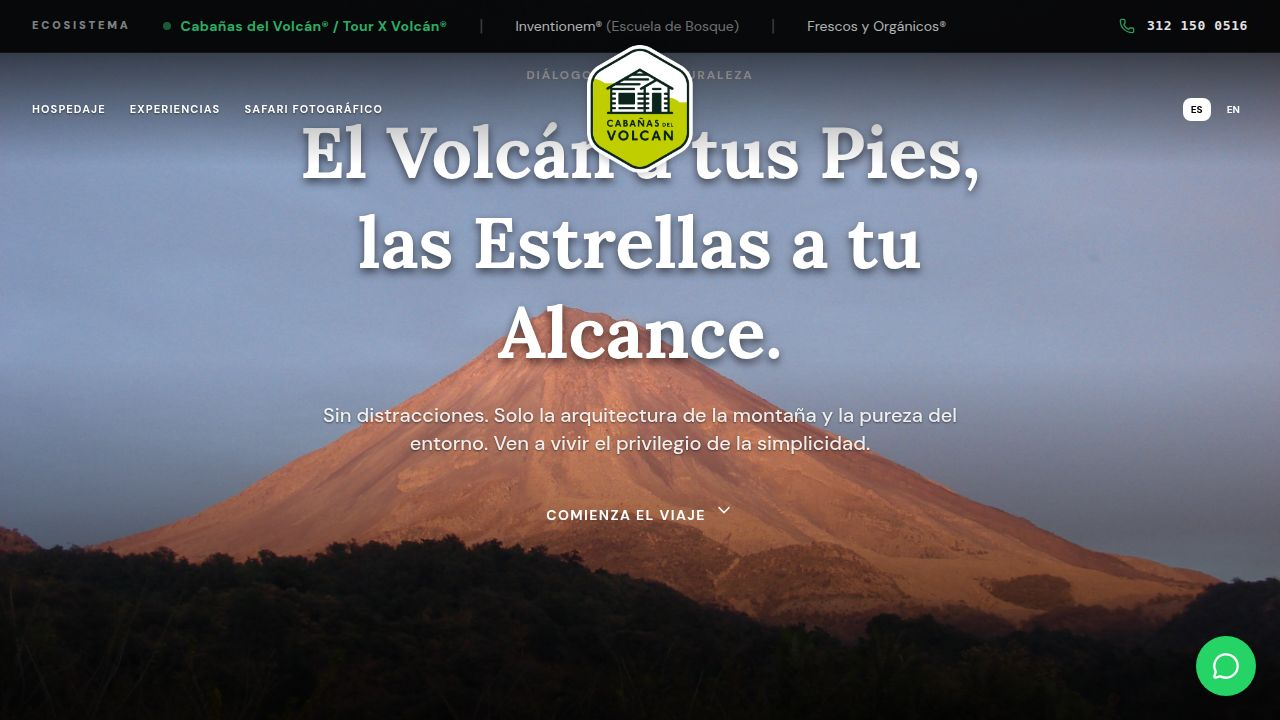
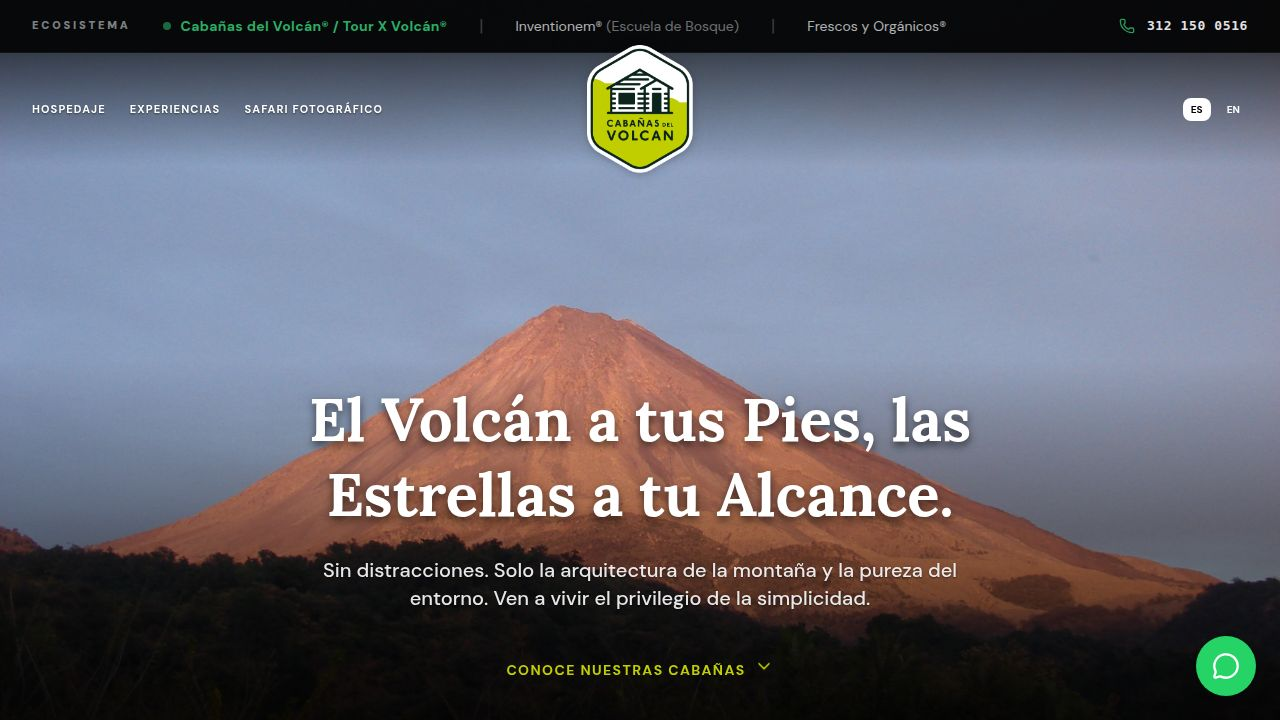
Update button color to highlight important actions
Change the primary call-to-action button color to #C0CE02 in Home.tsx.

Replit-Commit-Author: Agent
Replit-Commit-Session-Id: 59ebc59c-7478-4caa-be7a-8f2eb2f94f3c
Replit-Commit-Checkpoint-Type: full_checkpoint
Replit-Commit-Event-Id: 56c369e4-4cb9-4d55-bfab-61314351c677
Replit-Commit-Screenshot-Url: https://storage.googleapis.com/screenshot-production-us-central1/0442a91b-0f88-43b3-b644-6983b3f8b2ed/59ebc59c-7478-4caa-be7a-8f2eb2f94f3c/B44qF7N
Replit-Helium-Checkpoint-Created: true

diff --git a/client/src/pages/Home.tsx b/client/src/pages/Home.tsx
@@ -398,7 +398,8 @@ export default function Home() {
             </p>
             <div className="flex flex-col items-center gap-8">
               <button 
-                className="text-white text-sm font-bold uppercase tracking-widest hover:opacity-80 transition-opacity flex items-center gap-2"
+                className="text-sm font-bold uppercase tracking-widest hover:opacity-80 transition-opacity flex items-center gap-2"
+                style={{ color: '#C0CE02' }}
                 onClick={() => {
                   const element = document.getElementById('nuestras-cabanas');
                   element?.scrollIntoView({ behavior: 'smooth' });
